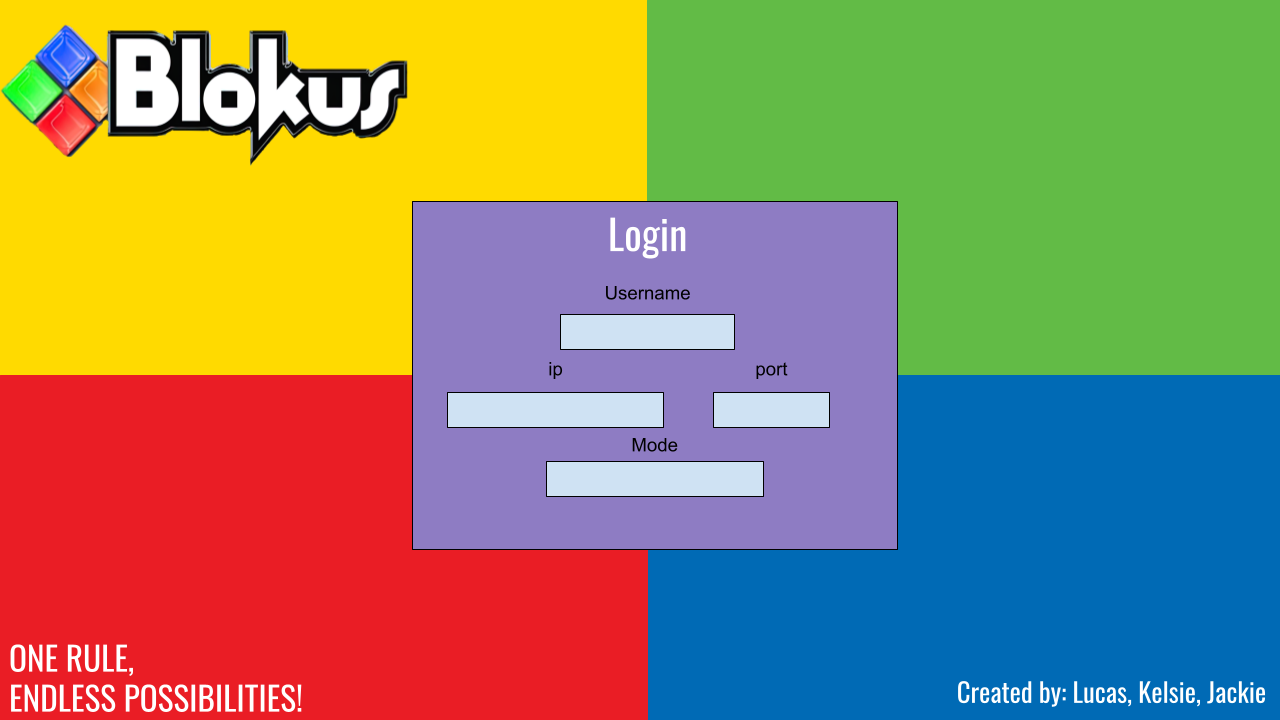
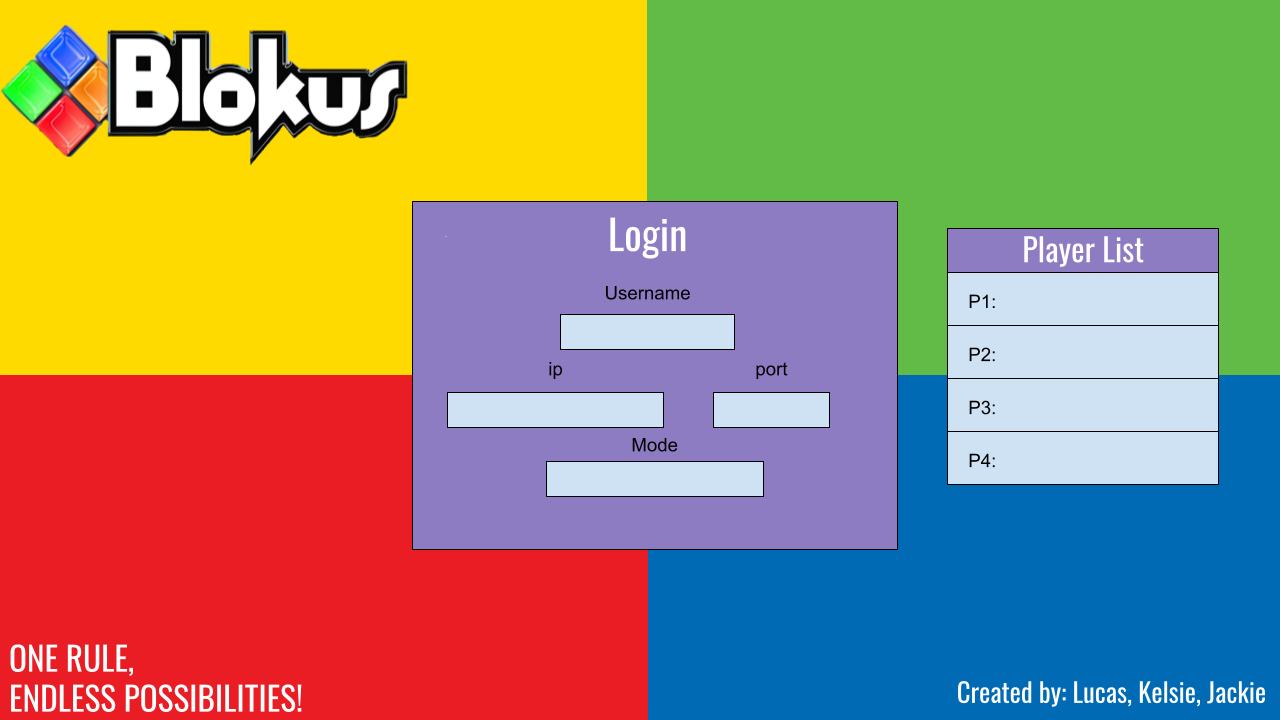
working on login screen with players connected
MIGHT NOT WORK BECAUSE IT IS NOT DONE

Changed region(s): [[0.7188, 0.3056, 0.9688, 0.6722]]

diff --git a/Blokus.java b/Blokus.java
@@ -9,16 +9,6 @@ import java.time.format.DateTimeFormatter;
 
 public class Blokus implements ActionListener, MouseListener, MouseMotionListener, KeyListener, FocusListener{
 	//Properties
-	JFrame theFrame = new JFrame("Blokus");
-	JTextField usernameField = new JTextField();
-	JTextField ipField = new JTextField();
-	JTextField portField = new JTextField();
-	JTextField sendTextField = new JTextField();
-	JRadioButton serverRButton = new JRadioButton("Server");
-	JRadioButton clientRButton = new JRadioButton("Client");
-	ButtonGroup buttonGroup = new ButtonGroup();
-	JTextArea chatArea = new JTextArea();
-	JScrollPane chatScroll = new JScrollPane(chatArea);
 	BlokusPanel theGamePanel = new BlokusPanel();
 	BlokusMenuPanel theMenuPanel = new BlokusMenuPanel();
 	BlokusLoginPanel theLoginPanel = new BlokusLoginPanel();
@@ -33,9 +23,20 @@ public class Blokus implements ActionListener, MouseListener, MouseMotionListene
 	boolean boolUsername = false;
 
 	//J Properties
-	JButton startButton = new JButton("Start");
+	JButton loginButton = new JButton("Login");
 	JButton quitButton = new JButton("Quit");
 	JButton connectButton = new JButton ("Connect!");
+	JButton startButton = new JButton("Start!");
+	JFrame theFrame = new JFrame("Blokus");
+	JTextField usernameField = new JTextField();
+	JTextField ipField = new JTextField();
+	JTextField portField = new JTextField();
+	JTextField sendTextField = new JTextField();
+	JRadioButton serverRButton = new JRadioButton("Server");
+	JRadioButton clientRButton = new JRadioButton("Client");
+	ButtonGroup buttonGroup = new ButtonGroup();
+	JTextArea chatArea = new JTextArea();
+	JScrollPane chatScroll = new JScrollPane(chatArea);
 	
 	//Methods
 	public void actionPerformed(ActionEvent evt){
@@ -43,7 +44,7 @@ public class Blokus implements ActionListener, MouseListener, MouseMotionListene
 			theGamePanel.repaint();
 		}else if(evt.getSource() == quitButton){
 			System.exit(0);
-		}else if(evt.getSource() == startButton){
+		}else if(evt.getSource() == loginButton){
 			theMenuPanel.setVisible(false);
 			theLoginPanel.setVisible(true);
 			//FOR TESTING CHANGE TO (theGamePanel)
@@ -90,13 +91,16 @@ public class Blokus implements ActionListener, MouseListener, MouseMotionListene
 					System.out.println(boolConnect);
 					//if client connection true
 					if(boolConnect){
-						theLoginPanel.setVisible(false);
-						theGamePanel.setVisible(true);
-						theFrame.setContentPane(theGamePanel);	
-						theGamePanel.boolStartGame = true;
-						chatArea.append("My Address: "+ssm.getMyAddress()+"\n");
-						chatArea.append("My Hostname: "+ssm.getMyHostname()+"\n");
+					//	theLoginPanel.setVisible(false);
+					//	theGamePanel.setVisible(true);
+					//	theFrame.setContentPane(theGamePanel);	
+					//	theGamePanel.boolStartGame = true;
+					//	chatArea.append("My Address: "+ssm.getMyAddress()+"\n");
+					//	chatArea.append("My Hostname: "+ssm.getMyHostname()+"\n");
 						System.out.println("Client connected!");
+						connectButton.setEnabled(false);
+						ssm.sendText("name." + strUsername);
+						
 					}else{
 						System.out.println("Client connect failed!");
 					}
@@ -110,13 +114,17 @@ public class Blokus implements ActionListener, MouseListener, MouseMotionListene
 					System.out.println(boolConnect);
 					//if server connection true
 					if(boolConnect){
-						theLoginPanel.setVisible(false);
-						theGamePanel.setVisible(true);
-						theFrame.setContentPane(theGamePanel);
-						theGamePanel.boolStartGame = true;
-						chatArea.append("My Address: "+ssm.getMyAddress()+"\n");
-						chatArea.append("My Hostname: "+ssm.getMyHostname()+"\n");
+					//	theLoginPanel.setVisible(false);
+					//	theGamePanel.setVisible(true);
+					//	theFrame.setContentPane(theGamePanel);
+					//	theGamePanel.boolStartGame = true;
+					//	chatArea.append("My Address: "+ssm.getMyAddress()+"\n");
+					//	chatArea.append("My Hostname: "+ssm.getMyHostname()+"\n");
 						System.out.println("Server connected!");
+						startButton.setVisible(true);
+						connectButton.setEnabled(false);
+						startButton.setEnabled(false);
+						
 					}else{
 						System.out.println("Server connect failed!");
 					}
@@ -215,11 +223,11 @@ public class Blokus implements ActionListener, MouseListener, MouseMotionListene
 		theFrame.setDefaultCloseOperation(JFrame.EXIT_ON_CLOSE);
 		theFrame.setResizable(false);
 		
-		//Start Button Menu
-		startButton.setSize(300, 50);
-		startButton.setLocation(170, 500);
-		startButton.addActionListener(this);
-		theMenuPanel.add(startButton);
+		//Login Button Menu
+		loginButton.setSize(300, 50);
+		loginButton.setLocation(170, 500);
+		loginButton.addActionListener(this);
+		theMenuPanel.add(loginButton);
 		
 		//Quit Button Menu
 		quitButton.setSize(300, 50);
@@ -232,6 +240,13 @@ public class Blokus implements ActionListener, MouseListener, MouseMotionListene
 		connectButton.setLocation(556, 510);
 		connectButton.addActionListener(this);
 		theLoginPanel.add(connectButton);
+		
+		//Start Button Login
+		startButton.setSize(272, 42);
+		startButton.setLocation(947, 485);
+		startButton.addActionListener(this);
+		theLoginPanel.add(startButton);
+		startButton.setVisible(false);
 		
 		//username Textfield
 		usernameField = new JTextField();
@@ -262,6 +277,7 @@ public class Blokus implements ActionListener, MouseListener, MouseMotionListene
 		clientRButton.setSize(100,25);
 		clientRButton.setLocation(687,468);
 		clientRButton.setOpaque(false);
+		serverRButton.addActionListener(this);
 		theLoginPanel.add(clientRButton);
 		
 		//buttonGroups
@@ -269,7 +285,7 @@ public class Blokus implements ActionListener, MouseListener, MouseMotionListene
 		buttonGroup.add(serverRButton);
 		
 		//Chat Box
-		chatScroll.setSize(541,110);
+		chatScroll.setSize(540,110);
 		chatScroll.setLocation(370, 581);
 		chatScroll.setHorizontalScrollBarPolicy(JScrollPane.HORIZONTAL_SCROLLBAR_NEVER);
 		chatArea.setLineWrap(true);
@@ -277,7 +293,7 @@ public class Blokus implements ActionListener, MouseListener, MouseMotionListene
 		theGamePanel.add(chatScroll); 
 		
 		//Chat TextField
-		sendTextField.setSize(541, 24);
+		sendTextField.setSize(540, 24);
 		sendTextField.setLocation(370, 691);
 		sendTextField.setForeground(Color.BLACK);
 		sendTextField.setBackground(new Color(157, 156, 154));

diff --git a/BlokusPanel.java b/BlokusPanel.java
@@ -14,10 +14,10 @@ public class BlokusPanel extends JPanel{
 	String intARow[];
 	int PieceGrid[][] = new int [4][4];
 	// 0 = EMPTY
-	// 1 = RED (P1)
-	// 2 = BLUE (P2)
-	// 3 = GREEN (P3)
-	// 4 = YELLOW (P4)
+	// 1 = YELLOW (P1)
+	// 2 = GREEN (P2)
+	// 3 = BLUE (P3)
+	// 4 = RED (P4)
 	// Booleans
 	boolean boolStartGame = false;
 	boolean boolYourTurn = true; // we can change this later so that bool value is decided within later code
@@ -45,7 +45,11 @@ public class BlokusPanel extends JPanel{
 	// Strings
 	String intLine;
 	String strRow;
-
+	String strP1Name;
+	String strP2Name;
+	String strP3Name;
+	String strP4Name;
+	
 	// Images
 	BufferedImage white = null;
 	BufferedImage red = null;
@@ -57,17 +61,68 @@ public class BlokusPanel extends JPanel{
 	public void paintComponent(/*graphics variable*/Graphics g){
 		Blok BlokObject = new Blok();
 		super.paintComponent(g);
+		//UI
+		//P1 (Yellow)
+		g.setColor(new Color(255, 208, 132));
+		g.fillRect(0, 0, 640, 360);
+		g.setColor(new Color(204, 166, 105));
+		g.fillRect(350, 0, 290, 360);
+		//P1 NameCard
+		g.setColor(new Color(178, 145, 92));
+		g.fillRect(0, 0, 350, 40);
+		g.setColor(Color.BLACK);
+		g.setFont(new Font("TimesRoman", Font.BOLD, 25)); 
+		g.drawString("P1: " + strP1Name, 15, 30);
+		
+		//P2 (Green)
+		g.setColor(new Color(98, 218, 166));
+		g.fillRect(640, 0, 640, 360);
+		g.setColor(new Color(75, 166, 127));
+		g.fillRect(640, 0, 290, 360);
+		//P2 NameCard
+		g.setColor(new Color(63, 140, 106));
+		g.fillRect(930, 0, 350, 40);
+		g.setColor(Color.BLACK);
+		g.setFont(new Font("TimesRoman", Font.BOLD, 25)); 
+		g.drawString("P2: " + strP1Name, 945, 30);
+		
+		//P3 (Blue)
+		g.setColor(new Color(115, 217, 219));
+		g.fillRect(640, 360, 640, 360);
+		g.setColor(new Color(88, 166, 167));
+		g.fillRect(640, 360, 290, 360);
+		//P3 NameCard
+		g.setColor(new Color(74, 141, 142));
+		g.fillRect(930, 680, 350, 40);
+		g.setColor(Color.BLACK);
+		g.setFont(new Font("TimesRoman", Font.BOLD, 25)); 
+		g.drawString("P3: " + strP4Name, 945, 710);
+		
+		//P4 (Red)
+		g.setColor(new Color(226, 97, 95));
+		g.fillRect(0, 360, 640, 360);
+		g.setColor(new Color(185, 94, 93));
+		g.fillRect(350, 360, 290, 360);
+		//P4 NameCard
+		g.setColor(new Color(149, 64, 62));
+		g.fillRect(0, 680, 350, 40);
+		g.setColor(Color.BLACK);
+		g.setFont(new Font("TimesRoman", Font.BOLD, 25)); 
+		g.drawString("P4: " + strP4Name, 15, 710);
+		
+		//Board
 		g.setColor(Color.BLACK);
 		g.drawRect(369, 26, 541, 541);
+		g.drawRect(350, 0, 580, 719);
 		//ChatBox
 		g.drawRect(369, 580, 541, 135);
-		boolStartGame = true;
-		//Player Boxes 
-		//P1 (Red)
-		g.drawRect(5, 5, 360, 350);
-		//P2 (Blue)
-		g.drawRect(5, 370, 360, 350);
+		//Logo
+		g.drawString("BLOKUS", 588, 23);
 		
+
+		
+		//GAME
+		boolStartGame = true;
 		if(boolStartGame == true){
 			// THIS SECTION READS THE MAP AS THE GAME STARTS, SHOULD FOLLOW THE .csv FILE VALUES
 			// - we should add a button to set boolStartGame to true, so the game starts (we could use a button)
@@ -99,13 +154,13 @@ public class BlokusPanel extends JPanel{
 					if(strBoard[intRow][intCol].equals("0")){
 						g.drawImage(white, 370 + intCol * 27, 27 + intRow * 27, null);
 					}else if(strBoard[intRow][intCol].equals("1")){
-						g.drawImage(red, 370 + intCol * 27, 27 + intRow * 27, null);
-					}else if(strBoard[intRow][intCol].equals("2")){
-						g.drawImage(blue, 370 + intCol * 27, 27 + intRow * 27, null);
-					}else if(strBoard[intRow][intCol].equals("3")){
-						g.drawImage(green, 370 + intCol * 27, 27 + intRow * 27, null);
-					}else if(strBoard[intRow][intCol].equals("4")){
 						g.drawImage(yellow, 370 + intCol * 27, 27 + intRow * 27, null);
+					}else if(strBoard[intRow][intCol].equals("2")){
+						g.drawImage(green, 370 + intCol * 27, 27 + intRow * 27, null);
+					}else if(strBoard[intRow][intCol].equals("3")){
+						g.drawImage(blue, 370 + intCol * 27, 27 + intRow * 27, null);
+					}else if(strBoard[intRow][intCol].equals("4")){
+						g.drawImage(red, 370 + intCol * 27, 27 + intRow * 27, null);
 					}
 				}
 			}
